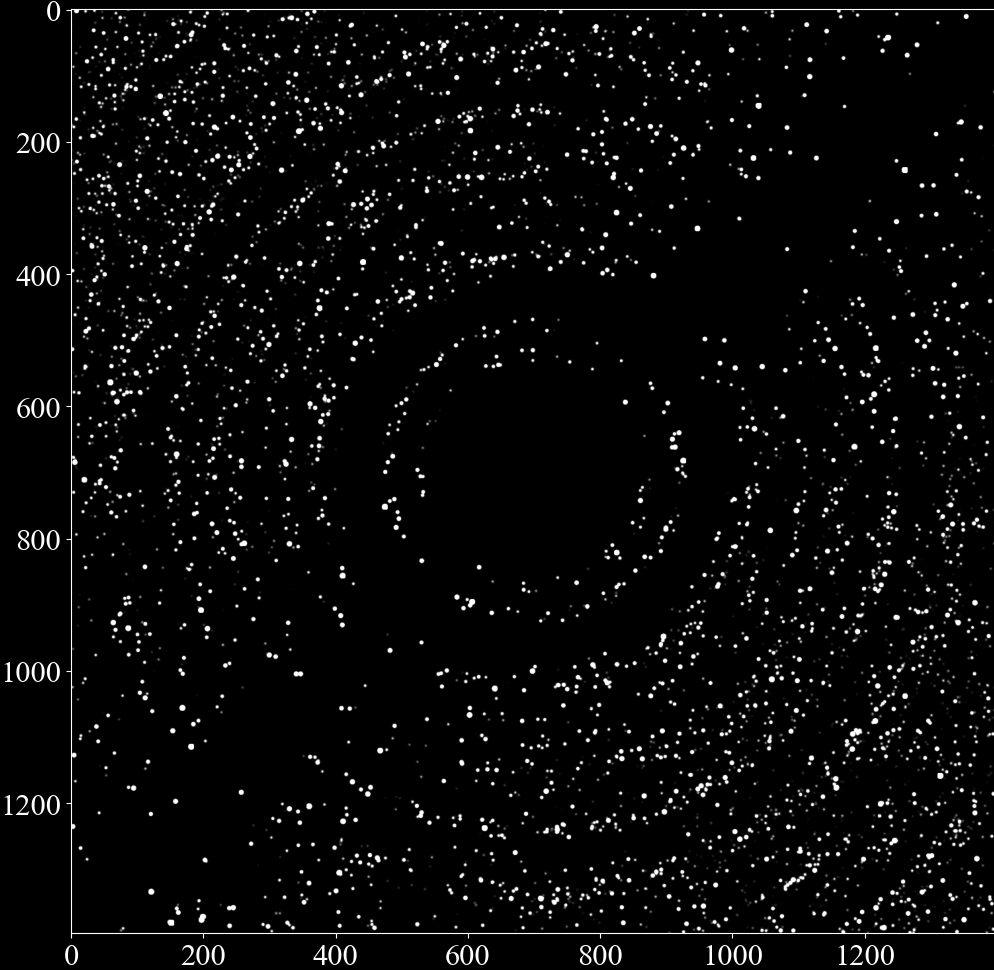
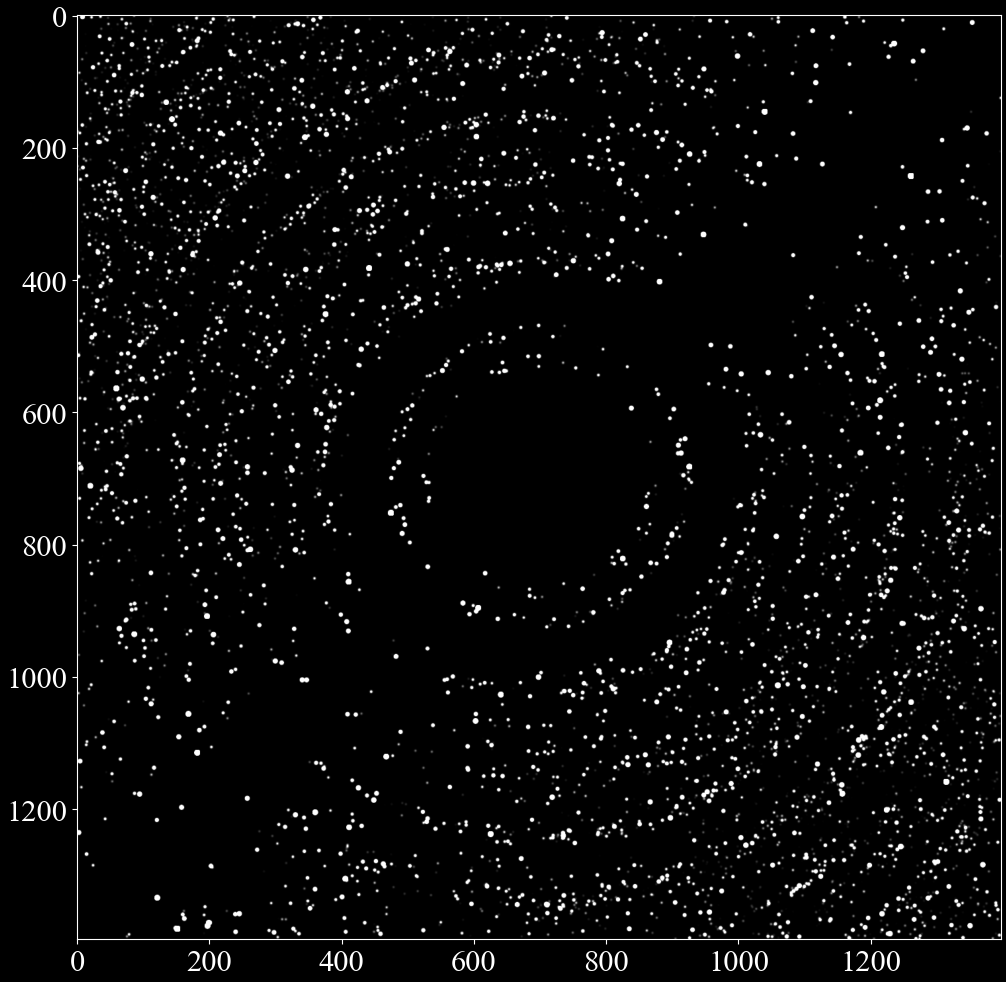
Better macro rendering for point-focused beams

diff --git a/docs/index.html b/docs/index.html
@@ -393,7 +393,8 @@ interact with the sample:</p>
 </pre></div>
 </div>
 </div></blockquote>
-<img alt="https://github.com/FABLE-3DXRD/xrd_simulator/blob/main/docs/source/images/diffraction_pattern.png?raw=true" class="align-center" src="https://github.com/FABLE-3DXRD/xrd_simulator/blob/main/docs/source/images/diffraction_pattern.png?raw=true" />
+<a class="reference internal image-reference" href="https://github.com/FABLE-3DXRD/xrd_simulator/blob/main/docs/source/images/diffraction_pattern.png?raw=true"><img alt="https://github.com/FABLE-3DXRD/xrd_simulator/blob/main/docs/source/images/diffraction_pattern.png?raw=true" class="align-center" src="https://github.com/FABLE-3DXRD/xrd_simulator/blob/main/docs/source/images/diffraction_pattern.png?raw=true" style="width: 95%;" />
+</a>
 <p>To compute several frames simply change the motion and collect the diffraction again. The sample may be moved before
 each computation using the same or another motion.</p>
 <blockquote>

diff --git a/xrd_simulator/detector.py b/xrd_simulator/detector.py
@@ -1591,6 +1591,13 @@ class Detector:
     ) -> npt.NDArray:
         """Project convex hull onto detector region.
 
+        Swithces between a sample driven and detector driven approcimation depending on
+        the detector pixel size and the convex hull size. When the convex hull is large
+        compared to the pixel size, the detector driven approach is used. This means that
+        rays traced from pixel centroids are used as projection lines. When the convex
+        hull is small compared to the pixel size, the sample driven approach is used. This
+        means that points are sampled from the interior of the hull and used as projection lines.
+
         Parameters
         ----------
         proj_context : dict
@@ -1605,12 +1612,10 @@ class Detector:
         Returns
         -------
         torch.Tensor
-            Array of clip lengths (path lengths) through the hull for each
-            detector ray.
+            Array of projected fractional contribution to each detector pixel
+            in the box. The sum total contribution is proportional to the
+            volume of the convex hull.
         """
-        # Get pixel coordinates - keep in torch
-        pixel_coords = self.pixel_coordinates[box[0] : box[1], box[2] : box[3], :]
-        ray_points = pixel_coords.reshape((box[1] - box[0]) * (box[3] - box[2]), 3)
 
         # ConvexHull from scipy returns numpy, convert to torch
         hull = proj_context["convex_hull"]
@@ -1620,14 +1625,62 @@ class Detector:
         )
         plane_points = -plane_offsets * plane_normals
 
+        n_pixels_in_box = (box[1] - box[0]) * (box[3] - box[2])
+
         # Ray direction in torch
         scattered_vec = proj_context["scattered_wave_vector"]
         ray_direction = scattered_vec / torch.linalg.norm(scattered_vec)
 
-        clip_lengths = utils._clip_line_with_convex_polyhedron(
-            ray_points, ray_direction, plane_points, plane_normals
-        )
-        clip_lengths = clip_lengths.reshape(box[1] - box[0], box[3] - box[2])
+        if n_pixels_in_box == 1:
+            # tetra is fully contained in a detector pixel, use the volume of the tetra as intensity
+            return torch.ones(1, 1) * proj_context["convex_hull"].volume
+        elif (
+            n_pixels_in_box <= 4
+        ):  # tetra is small compared to the pixel size, adapt to sampling approach.
+            # This is a decent approximation when the tetras are small in relation to the pixel size
+            n_samples = (
+                7 * n_pixels_in_box
+            )  # TODO the ad-hoc number 7 here should perhaps be a parameter to give controll over the accuracy of the statistics.
+            ray_points = utils._sample_convex_hull_3d(
+                proj_context["convex_hull"], n_samples
+            )
+            ray_points.reshape(n_samples, 3)
+            ray_points = ensure_torch(ray_points)
+
+            clip_lengths = utils._clip_line_with_convex_polyhedron(
+                ray_points, ray_direction, plane_points, plane_normals
+            )
+            # now map the clip lengths to the detector pixels
+            ray_directions = torch.tile(ray_direction, (n_samples, 1))
+            out = self._get_intersection(ray_directions, ray_points)
+            zd = out[:, 0]
+            yd = out[:, 1]
+
+            row_index = ensure_numpy(zd / self.pixel_size_z).astype(int) - box[0]
+            col_index = ensure_numpy(yd / self.pixel_size_y).astype(int) - box[2]
+
+            box_intensities = np.zeros((box[1] - box[0], box[3] - box[2]))
+            np.add.at(box_intensities, (row_index, col_index), clip_lengths)
+            box_intensities /= box_intensities.sum()
+            box_intensities *= proj_context["convex_hull"].volume
+
+            return ensure_torch(box_intensities)
+
+        else:
+            # This is a good approximation when the tetras are large in relation to the pixel size
+            # Get pixel coordinates and project on pixel centorid ray-lines
+            pixel_coords = self.pixel_coordinates[box[0] : box[1], box[2] : box[3], :]
+            ray_points = pixel_coords.reshape((box[1] - box[0]) * (box[3] - box[2]), 3)
+
+            clip_lengths = utils._clip_line_with_convex_polyhedron(
+                ray_points, ray_direction, plane_points, plane_normals
+            )
+
+            # ensure that scattering is proportional to the material volume
+            # that is scattering.
+            clip_lengths /= clip_lengths.sum()
+            clip_lengths *= proj_context["convex_hull"].volume
+            clip_lengths = clip_lengths.reshape(box[1] - box[0], box[3] - box[2])
 
         return clip_lengths
 

diff --git a/tests/test_detector.py b/tests/test_detector.py
@@ -3,8 +3,11 @@ import unittest
 
 import numpy as np
 import torch
+from scipy.ndimage import label
 from scipy.spatial import ConvexHull
+from scipy.spatial.transform import Rotation
 
+from xrd_simulator import polycrystal
 from xrd_simulator.beam import Beam
 from xrd_simulator.detector import Detector
 from xrd_simulator.mesh import TetraMesh
@@ -702,6 +705,107 @@ class TestDetector(unittest.TestCase):
             torch.sum(diffraction_pattern_nano),
             0,
             msg="Pattern should be empty when all peaks have infinite Lorentz",
+        )
+
+    def test_macro_scanning_3dxrd_setup(self):
+
+        radius = 100.0
+        mesh = TetraMesh.generate_mesh_from_levelset(
+            level_set=lambda x: np.linalg.norm(x) - radius,
+            bounding_radius=radius + 5.0,
+            max_cell_circumradius=50.0,
+        )
+
+        mesh.translate(-mesh.ecentroids.mean(axis=0))
+        data = os.path.join(
+            os.path.join(os.path.dirname(__file__), "data"),
+            "Fe_mp-150_conventional_standard.cif",
+        )
+        unit_cell = [3.64570000, 3.64570000, 3.64570000, 90.0, 90.0, 90.0]
+        sgname = "Fm-3m"
+        phase = Phase(unit_cell, sgname, path_to_cif_file=data)
+
+        detector_distance = 98932.41043969788
+        pixel_size = 75  # microns
+        detector_size = 2048 * pixel_size
+        energy = 55.5  # kev
+        wavelength = 12.3984198742 / energy  # angstrom
+
+        phase._setup_diffracting_planes(wavelength, 0, 20 * torch.pi / 180)
+
+        pc = polycrystal.Polycrystal(
+            mesh=mesh,
+            orientation=Rotation.random(mesh.number_of_elements).as_matrix(),
+            strain=np.zeros((3, 3)),
+            phases=[Phase(unit_cell, sgname, path_to_cif_file=None)],
+            element_phase_map=np.zeros((mesh.number_of_elements,)).astype(int),
+        )
+
+        det_corner_0 = np.array(
+            [detector_distance, -detector_size / 2.0, -detector_size / 2.0]
+        )
+        det_corner_1 = np.array(
+            [detector_distance, detector_size / 2.0, -detector_size / 2.0]
+        )
+        det_corner_2 = np.array(
+            [detector_distance, -detector_size / 2.0, detector_size / 2.0]
+        )
+
+        beam_y = 2.0  # um
+        t = beam_y / 2.0
+        dz = beam_y / 2.0
+        beam_vertices = np.array(
+            [
+                [-detector_distance, -t, -dz],
+                [-detector_distance, t, -dz],
+                [-detector_distance, t, dz],
+                [-detector_distance, -t, dz],
+                [detector_distance, -t, -dz],
+                [detector_distance, t, -dz],
+                [detector_distance, t, dz],
+                [detector_distance, -t, dz],
+            ]
+        )
+        xray_propagation_direction = np.array([1, 0, 0]) * 2 * np.pi / wavelength
+        polarization_vector = np.array([0, 1, 0])
+        xray_beam = Beam(
+            beam_vertices, xray_propagation_direction, wavelength, polarization_vector
+        )
+        rotation_angle = np.radians(20.0)
+        rotation_axis = np.array([0, 0, 1])
+        single_frame_motion = RigidBodyMotion(
+            rotation_axis,
+            rotation_angle,
+            translation=np.array([0, 0, 0]),
+        )
+
+        eiger = Detector(
+            det_corner_0,
+            det_corner_1,
+            det_corner_2,
+            pixel_size=(pixel_size, pixel_size),
+            gaussian_sigma=0.4,
+            kernel_threshold=0.001,
+            max_gaussian_kernel_radius=9,
+        )
+        peaks = pc.diffract(
+            xray_beam, single_frame_motion, detector=eiger, verbose=True
+        )
+        diffraction_pattern, peaks = eiger.render(
+            peaks,
+            frames_to_render=1,
+            method="macro",
+        )
+
+        im = diffraction_pattern[0].numpy()
+        im[np.isnan(im)] = 0
+
+        self.assertGreaterEqual(im.max(), 0, msg="Diffraction pattern is empty")
+
+        _, num_labels = label(im)
+
+        self.assertGreaterEqual(
+            num_labels, 20, msg="There appears to be very few diffraction spots"
         )
 
 

diff --git a/tests/test_utils.py b/tests/test_utils.py
@@ -1,15 +1,36 @@
 import unittest
 import warnings
+
 import numpy as np
-from xfab import tools
-from xrd_simulator import utils
+from scipy.spatial import ConvexHull
 from scipy.spatial.transform import Rotation
+from xfab import tools
+
+from xrd_simulator import utils
+
+rng = np.random.default_rng(0)
 
 
 class TestUtils(unittest.TestCase):
-
     def setUp(self):
         np.random.seed(10)  # changes all randomisation in the test
+
+    def test_sample_convex_hull_3d(self):
+        hull = ConvexHull(rng.random((100, 3)))
+        points = hull.points
+        r = points.mean(axis=0)
+        tris = points[hull.simplices]
+        a = tris[:, 0] - r
+        b = tris[:, 1] - r
+        c = tris[:, 2] - r
+        vols = np.abs(np.einsum("ij,ij->i", a, np.cross(b, c))) / 6.0
+        cents = (r + tris[:, 0] + tris[:, 1] + tris[:, 2]) / 4.0
+        cents = np.sum(cents * vols[:, None], axis=0) / vols.sum()
+        X = utils._sample_convex_hull_3d(hull, 200000)
+        A = hull.equations[:, :-1]
+        b = hull.equations[:, -1]
+        assert np.all(X @ A.T + b <= 1e-10)
+        assert np.allclose(X.mean(axis=0), cents, atol=1e-2)
 
     def test_clip_line_with_convex_polyhedron(self):
         line_points = np.ascontiguousarray([[-1.0, 0.2, 0.2], [-1.0, 0.4, 0.6]])
@@ -149,7 +170,7 @@ class TestUtils(unittest.TestCase):
 
     def test_diffractogram_deprecated(self):
         """Test that _diffractogram raises a deprecation warning.
-        
+
         .. deprecated::
             This test verifies that _diffractogram is properly marked as deprecated.
             The function will be removed in a future version.
@@ -171,7 +192,7 @@ class TestUtils(unittest.TestCase):
             # Check that deprecation warning was raised
             self.assertTrue(
                 any(issubclass(warning.category, DeprecationWarning) for warning in w),
-                msg="_diffractogram should raise DeprecationWarning"
+                msg="_diffractogram should raise DeprecationWarning",
             )
 
         # Verify function still works correctly (for backward compatibility)
@@ -186,13 +207,13 @@ class TestUtils(unittest.TestCase):
 
     def test_contained_by_intervals_deprecated(self):
         """Test that _contained_by_intervals raises a deprecation warning.
-        
+
         .. deprecated::
             This test verifies that _contained_by_intervals is properly marked as deprecated.
             The function will be removed in a future version.
         """
         intervals = [[0.0, 0.5], [0.7, 1.0]]
-        
+
         # Verify deprecation warning is raised
         with warnings.catch_warnings(record=True) as w:
             warnings.simplefilter("always")
@@ -200,9 +221,9 @@ class TestUtils(unittest.TestCase):
             # Check that deprecation warning was raised
             self.assertTrue(
                 any(issubclass(warning.category, DeprecationWarning) for warning in w),
-                msg="_contained_by_intervals should raise DeprecationWarning"
+                msg="_contained_by_intervals should raise DeprecationWarning",
             )
-        
+
         # Verify function still works correctly (for backward compatibility)
         self.assertTrue(result, msg="0.3 should be contained in [0.0, 0.5]")
 

diff --git a/xrd_simulator/utils.py b/xrd_simulator/utils.py
@@ -83,6 +83,8 @@ from scipy.spatial.transform import Rotation
 
 from xrd_simulator.cuda import get_selected_device
 
+rng = np.random.default_rng()
+
 
 def _cif_open(cif_file):
     """Helper function to be able to use the ``.CIFread`` of ``xfab``."""
@@ -120,6 +122,47 @@ def _print_progress(progress_fraction, message):
     )
     if progress_fraction == 1.0:
         print("", flush=True)
+
+
+def _sample_convex_hull_3d(hull, n_samples):
+    """Uniformly randomly sample points from the interior of a convex hull.
+
+    Parameters
+    ----------
+    hull : scipy.spatial.ConvexHull
+        Convex hull to sample from.
+    n_samples : int
+        Number of samples to draw.
+
+    Returns
+    -------
+    numpy.ndarray
+        Sampled points, shape ``(n_samples, 3)``.
+    """
+
+    # Split the convex hull into tetrahedra
+    points = hull.points
+    r = points.mean(axis=0)
+    tris = points[hull.simplices]
+    tets = np.empty((len(tris), 4, 3), dtype=points.dtype)
+    tets[:, 0] = r
+    tets[:, 1:] = tris
+    a = tets[:, 1] - tets[:, 0]
+    b = tets[:, 2] - tets[:, 0]
+    c = tets[:, 3] - tets[:, 0]
+
+    # Compute the volumes of the tetrahedra and randomly select tets
+    # based on volume weights.
+    vols = np.abs(np.einsum("ij,ij->i", a, np.cross(b, c))) / 6.0
+    idx = rng.choice(len(tets), size=n_samples, p=vols / vols.sum())
+
+    # Now use barycentric coordinates to uniformly sample points from
+    # the selected tetrahedra
+    w = rng.exponential(size=(n_samples, 4))
+    w /= w.sum(axis=1, keepdims=True)
+    random_points = np.einsum("ni,nij->nj", w, tets[idx])
+
+    return random_points
 
 
 def _clip_line_with_convex_polyhedron(
